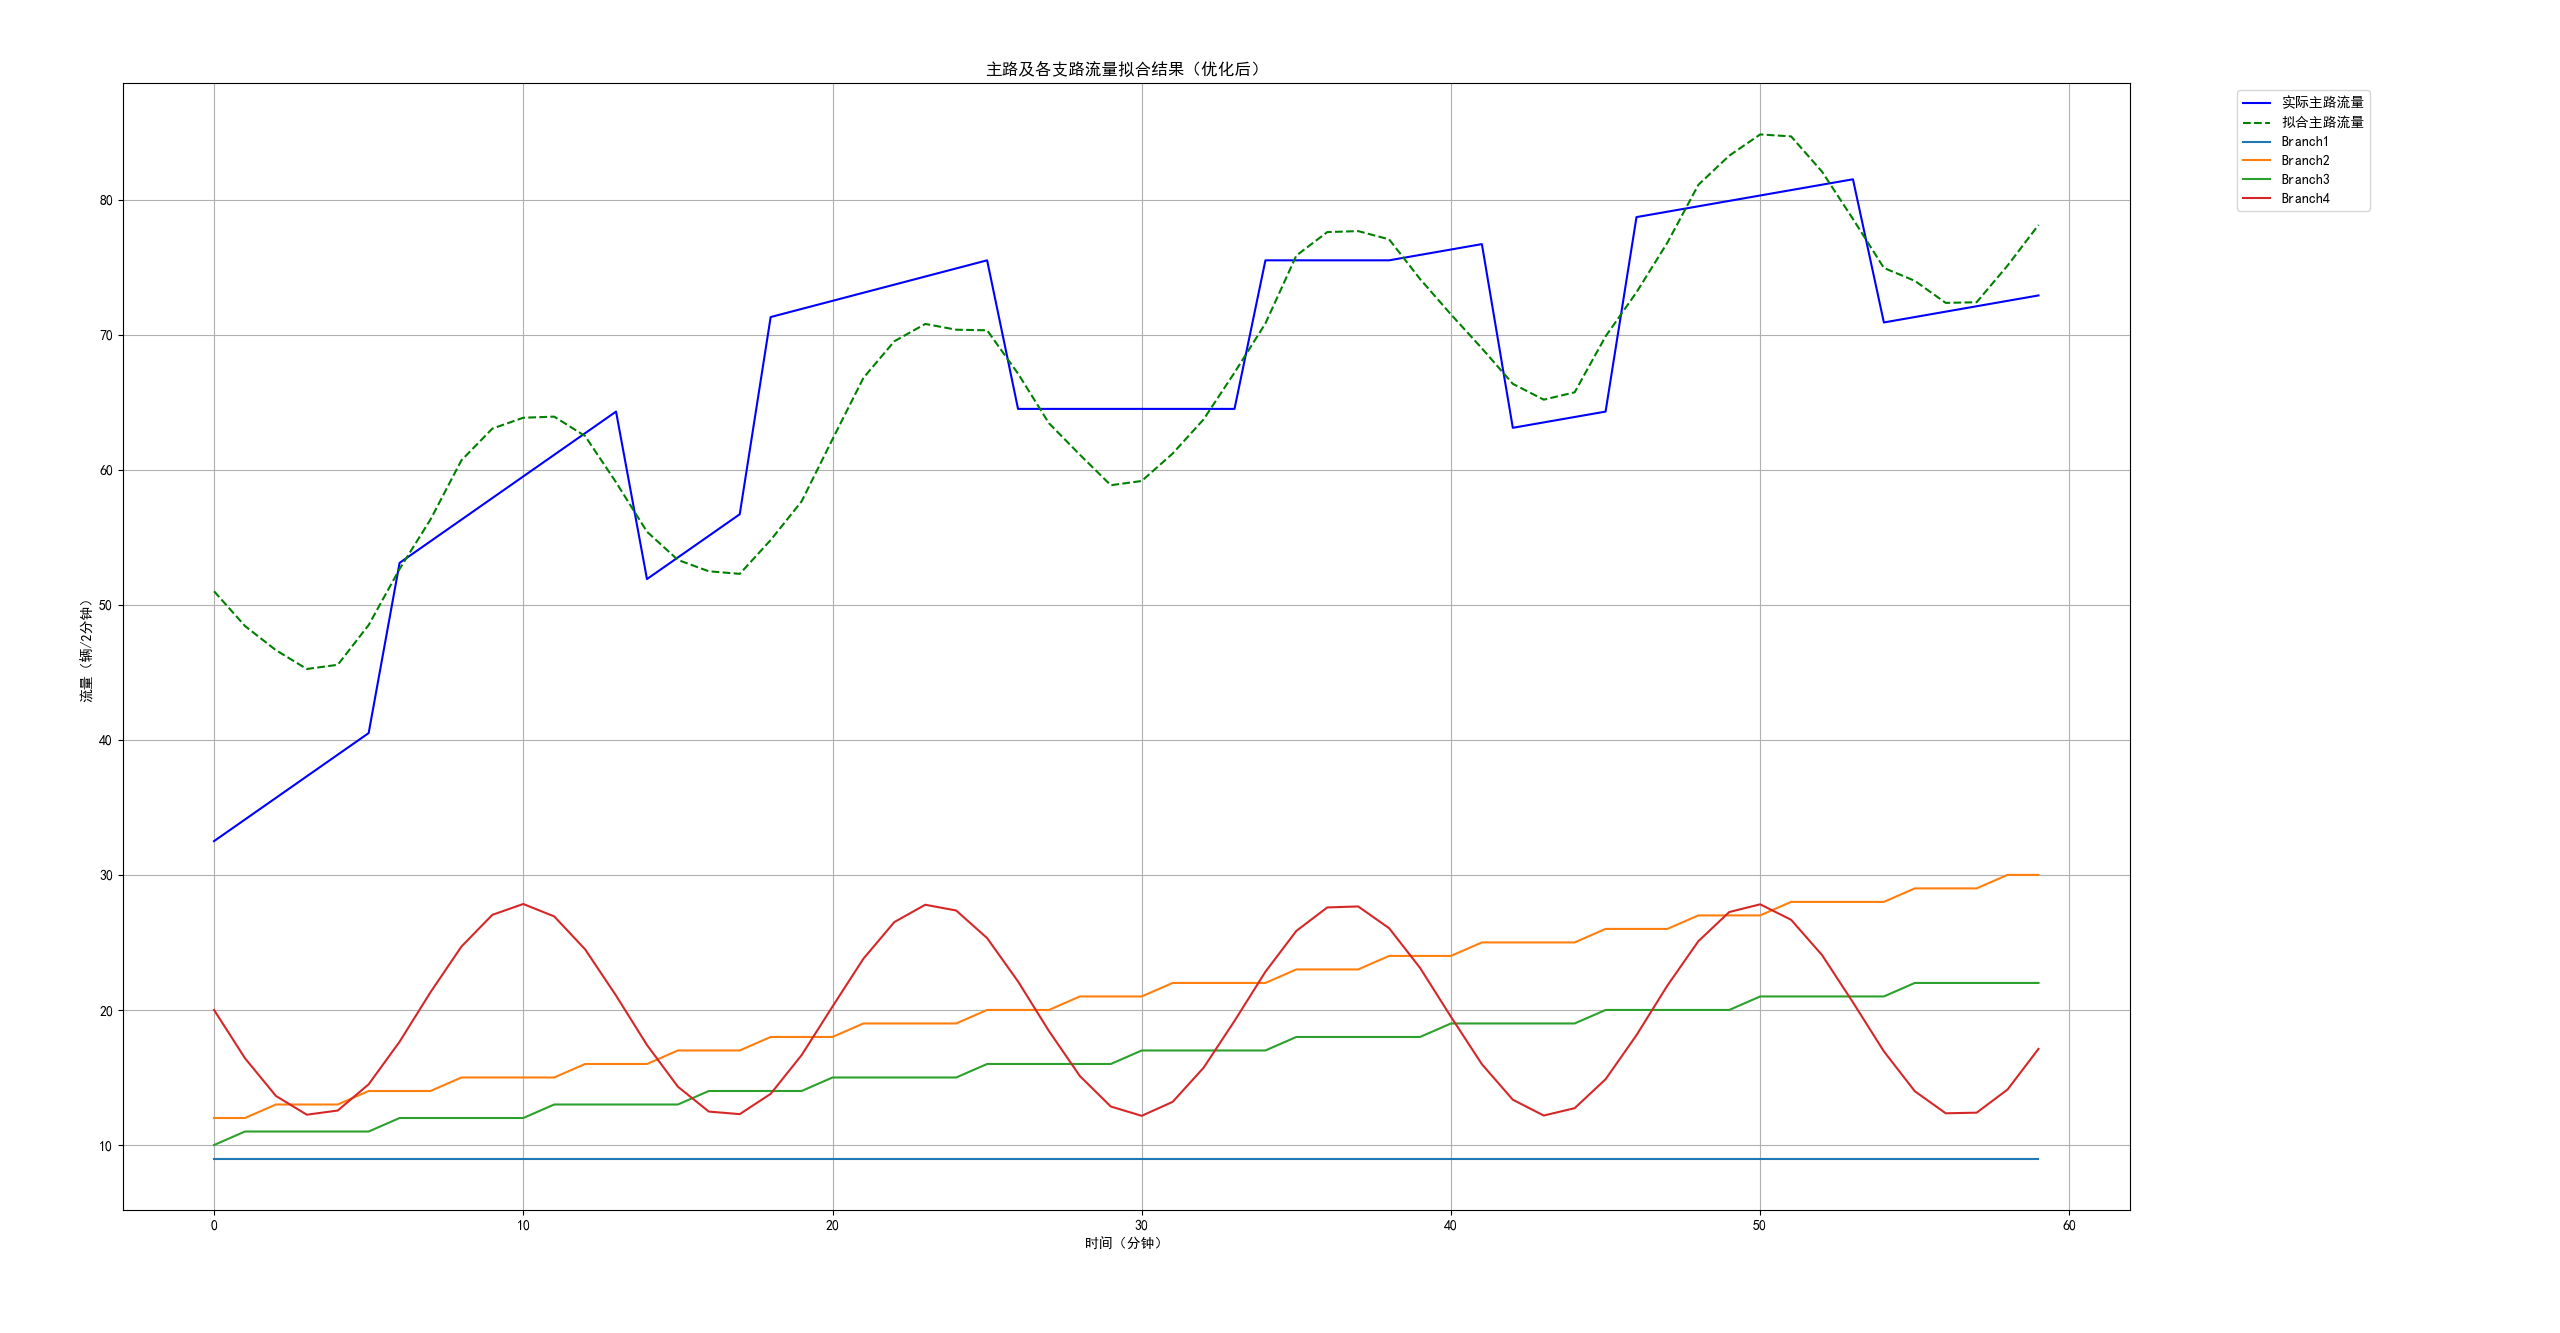
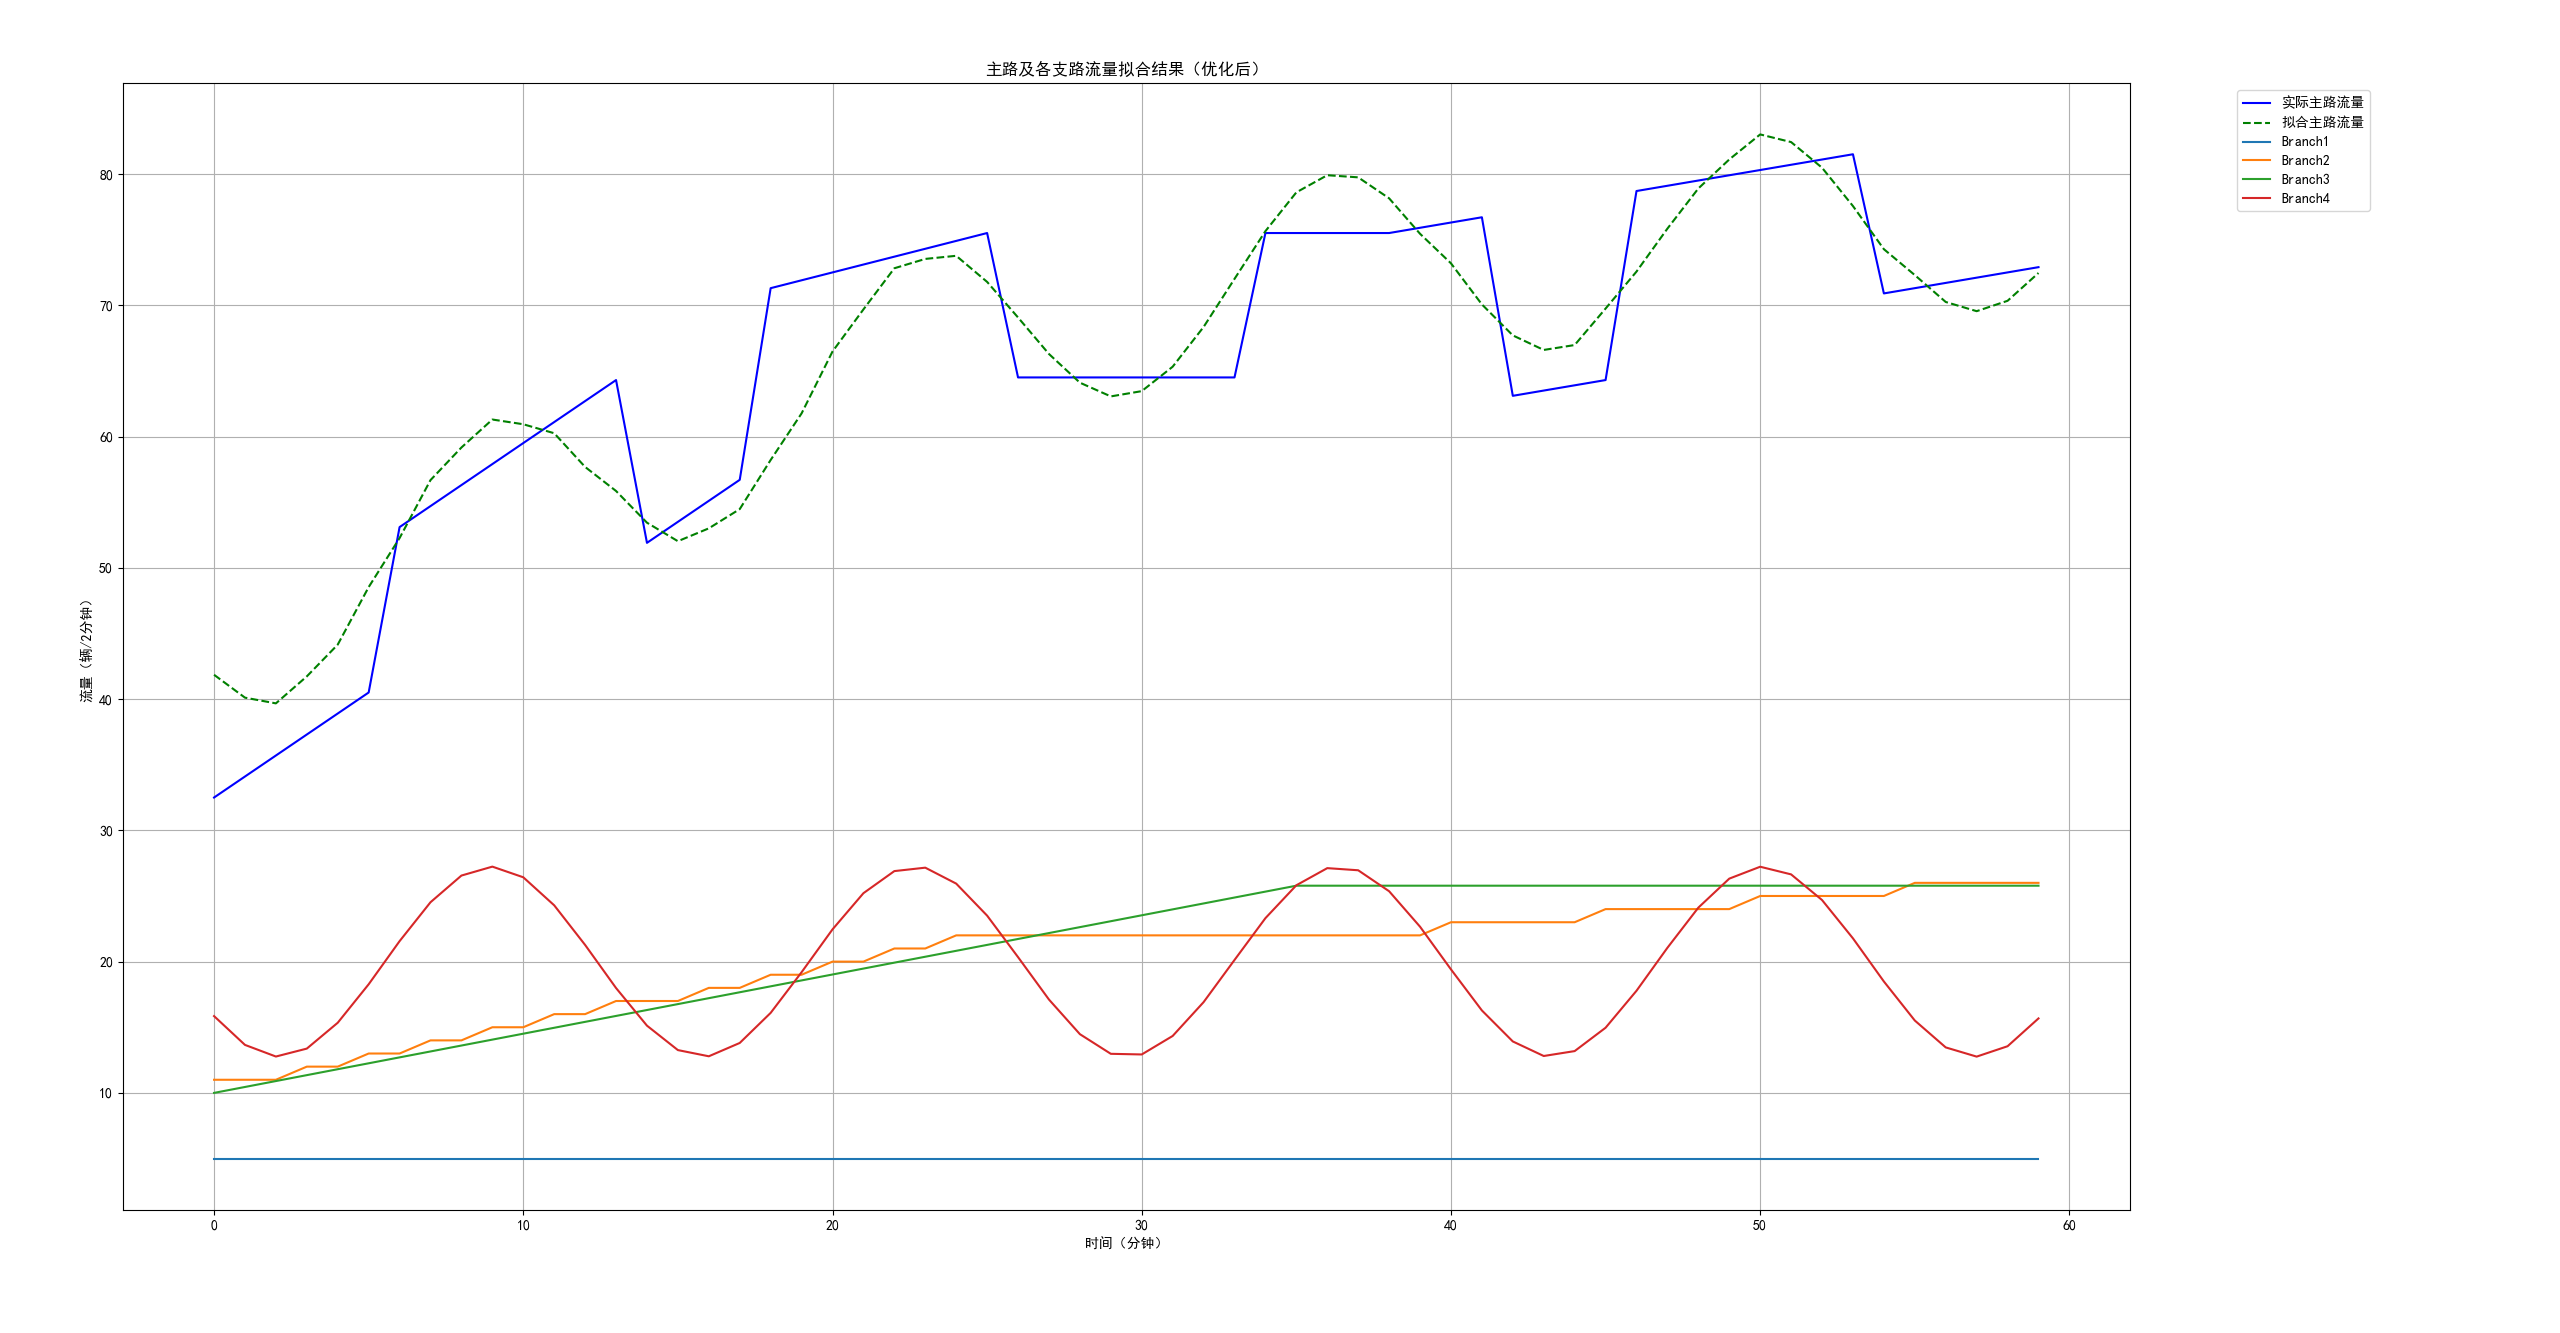
docs(51MCM): 添加 P2 题目结果文档
- 新增 result.md 文件，记录 P2 题目的最终结果
- 包含最优参数、最小误差、各支路流量值和车流量函数表达式
- 更新相关图片文件

diff --git a/51MCM/P2/result.md b/51MCM/P2/result.md
@@ -1,0 +1,13 @@
+# Result
+
+最终最优参数: [ 5.          0.46024918 11.95295328  0.20000086  0.45095283 10.
+ 35.         18.58646205  7.23717401 20.          0.45801483 -2.53090707]
+最终最小误差: 548.3278996955853
+7:30 各支路流量值: {'Branch1': 5, 'Branch2': 17, 'Branch3': 16.76429245533839, 'Branch4': 13.260660545353598}
+8:30 各支路流量值: {'Branch1': 5, 'Branch2': 24, 'Branch3': 25.78334906245624, 'Branch4': 14.963009583402645}
+
+--- 各支路车流量函数表达式 ---
+支路1: f(t) = 5.00 （稳定）
+支路2: f(t) = \begin{cases} 0.46t + 11.95, & t < 24 \\ 23.00, & 24 \leq t < 37 \\ -0.20t + 30.40, & t \geq 37 \end{cases}
+支路3: f(t) = \begin{cases} 0.45t + 10.00, & t < 35 \\ 18.59, & t \geq 35 \end{cases}
+支路4: f(t) = 7.24 \cdot \sin(0.46t + -2.53) + 20.00
